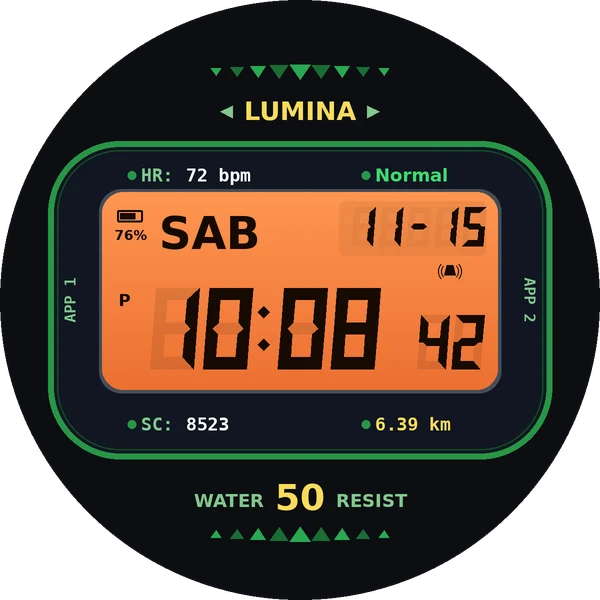
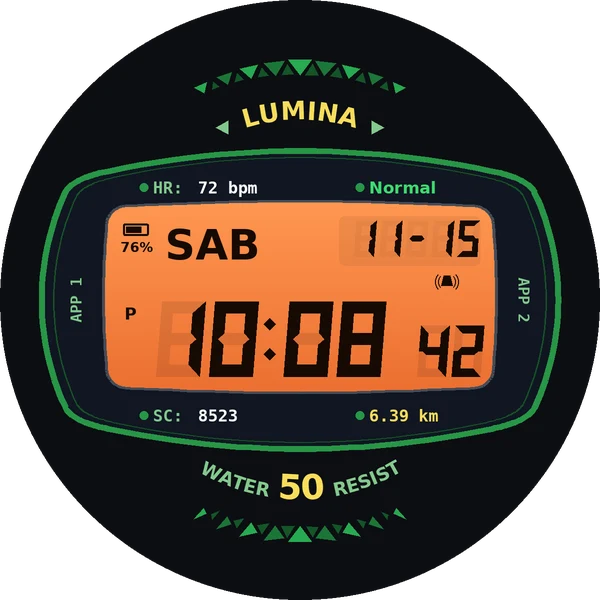
Lumina: panel con la forma de la foto (costados curvos y arcos arriba y abajo), textos y triángulos curvos
Claude-Session: https://claude.ai/code/session_01RTdv2VrACuR4VFWJLA57hx

Changed region(s): [[0.06, 0.09, 0.96, 0.9]]

diff --git a/android/esferas-de-reloj/lumina/src/main/java/cl/carlospnauto/esfera/FaceService.kt b/android/esferas-de-reloj/lumina/src/main/java/cl/carlospnauto/esfera/FaceService.kt
@@ -201,7 +201,7 @@ class LuminaRenderer(
         val r = min(b.width(), b.height()) / 2f
         val fx = (x - b.exactCenterX()) / r
         val fy = (y - b.exactCenterY()) / r
-        return fx in -0.66f..0.66f && fy in -0.36f..0.30f
+        return fx in -0.64f..0.64f && fy in -0.31f..0.29f
     }
 
     private fun a(c: Int, alpha: Int) = Color.argb(alpha, Color.red(c), Color.green(c), Color.blue(c))
@@ -222,38 +222,113 @@ class LuminaRenderer(
         return text.measureText(s)
     }
 
-    /** Fila de triángulos (arriba apuntan hacia abajo, abajo hacia arriba), más grandes al centro */
-    private fun chevrons(canvas: Canvas, cx: Float, y: Float, r: Float, color: Int, up: Boolean) {
+    /**
+     * Fila de triángulos siguiendo el borde redondo (arriba apuntan hacia adentro, abajo también),
+     * más grandes al centro y con los chicos invertidos entre medio (el zigzag)
+     */
+    private fun chevrons(canvas: Canvas, cx: Float, cy: Float, radius: Float, r: Float, color: Int, top: Boolean) {
         val n = 9
-        val step = r * 0.07f
+        val stepDeg = 6.2f
         for (i in 0 until n) {
             val k = i - (n - 1) / 2f
-            val size = r * (0.05f - kotlin.math.abs(k) * 0.006f)
-            val x = cx + k * step
+            val size = r * (0.052f - kotlin.math.abs(k) * 0.0055f)
+            canvas.save()
+            canvas.rotate(if (top) k * stepDeg else -k * stepDeg, cx, cy)
+            val y = if (top) cy - radius else cy + radius
+            val dir = if (top) 1f else -1f
+            // Grande: base hacia afuera, punta hacia el centro
             path.reset()
-            if (!up) {
-                path.moveTo(x - size * 0.7f, y - size * 0.5f); path.lineTo(x + size * 0.7f, y - size * 0.5f); path.lineTo(x, y + size * 0.5f)
-            } else {
-                path.moveTo(x - size * 0.7f, y + size * 0.5f); path.lineTo(x + size * 0.7f, y + size * 0.5f); path.lineTo(x, y - size * 0.5f)
-            }
+            path.moveTo(cx - size * 0.75f, y - dir * size * 0.5f)
+            path.lineTo(cx + size * 0.75f, y - dir * size * 0.5f)
+            path.lineTo(cx, y + dir * size * 0.5f)
             path.close()
-            fill.color = if (i % 2 == 0) color else a(color, 150)
+            fill.color = if (i % 2 == 0) color else a(color, 170)
             canvas.drawPath(path, fill)
-            // Triángulos invertidos entre los de la fila (el zigzag)
+            canvas.restore()
             if (i < n - 1) {
-                val x2 = x + step / 2
-                val s2 = size * 0.7f
+                canvas.save()
+                canvas.rotate(if (top) (k + 0.5f) * stepDeg else -(k + 0.5f) * stepDeg, cx, cy)
+                val s2 = size * 0.62f
                 path.reset()
-                if (!up) {
-                    path.moveTo(x2 - s2 * 0.6f, y + size * 0.5f); path.lineTo(x2 + s2 * 0.6f, y + size * 0.5f); path.lineTo(x2, y - size * 0.3f)
-                } else {
-                    path.moveTo(x2 - s2 * 0.6f, y - size * 0.5f); path.lineTo(x2 + s2 * 0.6f, y - size * 0.5f); path.lineTo(x2, y + size * 0.3f)
-                }
+                path.moveTo(cx - s2 * 0.7f, y + dir * size * 0.5f)
+                path.lineTo(cx + s2 * 0.7f, y + dir * size * 0.5f)
+                path.lineTo(cx, y - dir * size * 0.25f)
                 path.close()
-                fill.color = a(color, 110)
+                fill.color = a(color, 120)
                 canvas.drawPath(path, fill)
+                canvas.restore()
             }
         }
+    }
+
+    private val arcPath = Path()
+
+    /**
+     * Texto curvo siguiendo el borde redondo (arriba o abajo), centrado. Cada parte con su tamaño,
+     * color y letra (como «WATER 50 RESIST»). radius: el renglón (la base de las letras).
+     */
+    private fun arcText(canvas: Canvas, cx: Float, cy: Float, radius: Float, top: Boolean, gap: Float, parts: List<Triple<String, Float, Pair<Int, Typeface>>>) {
+        val widths = parts.map { (txt, size, cf) -> width(txt, size, cf.second) }
+        val total = widths.sum() + gap * (parts.size - 1)
+        arcPath.reset()
+        val oval = RectF(cx - radius, cy - radius, cx + radius, cy + radius)
+        // Arriba: de izquierda a derecha por arriba; abajo: de izquierda a derecha por abajo
+        if (top) arcPath.addArc(oval, 180f, 180f) else arcPath.addArc(oval, 180f, -180f)
+        val len = (Math.PI * radius).toFloat()
+        var off = len / 2 - total / 2
+        for ((idx, part) in parts.withIndex()) {
+            val (txt, size, cf) = part
+            text.typeface = cf.second
+            text.textSize = size
+            text.color = cf.first
+            text.textAlign = Paint.Align.LEFT
+            text.textSkewX = -0.18f
+            canvas.drawTextOnPath(txt, arcPath, off, 0f, text)
+            off += widths[idx] + gap
+        }
+        text.textSkewX = 0f
+    }
+
+    /**
+     * Panel con la forma de la foto: los costados siguen el círculo de la esfera y los bordes de
+     * arriba y abajo son arcos suaves, con las esquinas redondeadas. k achica el panel (línea de adentro).
+     */
+    private fun panelPath(cx: Float, cy: Float, r: Float, k: Float) {
+        val rr = r * k
+        fun X(v: Float) = cx + v * rr
+        fun Y(v: Float) = cy + v * rr
+        val side = 0.86f
+        val ang = Math.toDegrees(kotlin.math.asin(0.36 / side)).toFloat()
+        val sx = (side * kotlin.math.cos(Math.toRadians(ang.toDouble()))).toFloat()
+        path.reset()
+        path.moveTo(X(-0.64f), Y(-0.43f))
+        path.quadTo(cx, Y(-0.565f), X(0.64f), Y(-0.43f))
+        path.quadTo(X(0.76f), Y(-0.405f), X(sx), Y(-0.36f))
+        path.arcTo(RectF(X(-side), Y(-side), X(side), Y(side)), -ang, ang * 2, false)
+        path.quadTo(X(0.76f), Y(0.405f), X(0.64f), Y(0.43f))
+        path.quadTo(cx, Y(0.565f), X(-0.64f), Y(0.43f))
+        path.quadTo(X(-0.76f), Y(0.405f), X(-sx), Y(0.36f))
+        path.arcTo(RectF(X(-side), Y(-side), X(side), Y(side)), 180f - ang, ang * 2, false)
+        path.quadTo(X(-0.76f), Y(-0.405f), X(-0.64f), Y(-0.43f))
+        path.close()
+    }
+
+    /** Pantalla: esquinas redondeadas, arriba y abajo apenas curvos y los costados apenas abombados */
+    private fun screenPath(lcd: RectF, r: Float) {
+        val k = r * 0.075f
+        val mx = lcd.centerX()
+        val my = lcd.centerY()
+        path.reset()
+        path.moveTo(lcd.left + k, lcd.top)
+        path.quadTo(mx, lcd.top - r * 0.03f, lcd.right - k, lcd.top)
+        path.quadTo(lcd.right, lcd.top, lcd.right, lcd.top + k)
+        path.quadTo(lcd.right + r * 0.018f, my, lcd.right, lcd.bottom - k)
+        path.quadTo(lcd.right, lcd.bottom, lcd.right - k, lcd.bottom)
+        path.quadTo(mx, lcd.bottom + r * 0.03f, lcd.left + k, lcd.bottom)
+        path.quadTo(lcd.left, lcd.bottom, lcd.left, lcd.bottom - k)
+        path.quadTo(lcd.left - r * 0.018f, my, lcd.left, lcd.top + k)
+        path.quadTo(lcd.left, lcd.top, lcd.left + k, lcd.top)
+        path.close()
     }
 
     private fun bell(canvas: Canvas, x: Float, y: Float, s: Float, color: Int) {
@@ -290,7 +365,7 @@ class LuminaRenderer(
         val th = THEMES[Choices.index(context, THEME)].second
         canvas.drawColor(Color.BLACK)
 
-        val lcd = RectF(X(-0.66f), Y(-0.36f), X(0.66f), Y(0.30f))
+        val lcd = RectF(X(-0.64f), Y(-0.31f), X(0.64f), Y(0.29f))
         val ink = if (simple) Color.rgb(170, 170, 170) else sc.ink
         val ghost = if (simple) 0 else a(sc.ink, if (sc.dark) 30 else 26)
 
@@ -300,35 +375,41 @@ class LuminaRenderer(
             canvas.drawCircle(cx, cy, r, fill)
             fill.shader = null
 
-            // Triángulos y nombre arriba
-            chevrons(canvas, cx, Y(-0.76f), r, th.chevron, up = false)
+            // Triángulos y nombre arriba, curvos como el borde
+            chevrons(canvas, cx, cy, r * 0.775f, r, th.chevron, top = true)
             val brand = "LUMINA"
             val bs = r * 0.085f
+            val bR = r * 0.60f
+            arcText(canvas, cx, cy, bR, true, 0f, listOf(Triple(brand, bs, th.brand to bold)))
+            // Flechitas a los lados del nombre (siguen la curva)
             val bw = width(brand, bs, bold)
-            write(canvas, brand, cx, Y(-0.60f), bs, th.brand, bold, Paint.Align.CENTER, -0.2f)
+            val half = Math.toDegrees(((bw / 2 + r * 0.06f) / bR).toDouble()).toFloat()
             fill.color = th.label
             for (side in listOf(-1f, 1f)) {
-                val ax = cx + side * (bw / 2 + r * 0.05f)
+                canvas.save()
+                canvas.rotate(side * half, cx, cy)
+                val ay = cy - bR - bs * 0.32f
                 path.reset()
-                path.moveTo(ax + side * r * 0.03f, Y(-0.627f)); path.lineTo(ax - side * r * 0.012f, Y(-0.648f)); path.lineTo(ax - side * r * 0.012f, Y(-0.606f))
+                path.moveTo(cx + side * r * 0.03f, ay); path.lineTo(cx - side * r * 0.012f, ay - r * 0.022f); path.lineTo(cx - side * r * 0.012f, ay + r * 0.022f)
                 path.close()
                 canvas.drawPath(path, fill)
+                canvas.restore()
             }
 
-            // Panel con marco de color (doble línea) y fondo azul muy oscuro
-            val panel = RectF(X(-0.84f), Y(-0.53f), X(0.84f), Y(0.53f))
+            // Panel con la forma de la foto (costados curvos como la esfera), doble línea de color
+            panelPath(cx, cy, r, 1f)
             fill.color = Color.rgb(16, 22, 34)
-            canvas.drawRoundRect(panel, r * 0.24f, r * 0.24f, fill)
+            canvas.drawPath(path, fill)
             stroke.color = th.frame
             stroke.strokeWidth = r * 0.02f
-            canvas.drawRoundRect(panel, r * 0.24f, r * 0.24f, stroke)
-            stroke.color = a(th.frame, 110)
+            canvas.drawPath(path, stroke)
+            panelPath(cx, cy, r, 0.955f)
+            stroke.color = a(th.frame, 120)
             stroke.strokeWidth = r * 0.006f
-            val inner = RectF(panel.left + r * 0.03f, panel.top + r * 0.03f, panel.right - r * 0.03f, panel.bottom - r * 0.03f)
-            canvas.drawRoundRect(inner, r * 0.21f, r * 0.21f, stroke)
+            canvas.drawPath(path, stroke)
 
             // APP 1 y APP 2 (accesos) en los costados
-            for ((sx, label, deg) in listOf(Triple(-0.765f, "APP 1", -90f), Triple(0.765f, "APP 2", 90f))) {
+            for ((sx, label, deg) in listOf(Triple(-0.745f, "APP 1", -90f), Triple(0.745f, "APP 2", 90f))) {
                 canvas.save()
                 canvas.rotate(deg, X(sx), cy)
                 write(canvas, label, X(sx), cy + r * 0.018f, r * 0.05f, th.label, mono, Paint.Align.CENTER)
@@ -339,11 +420,11 @@ class LuminaRenderer(
             val hrTxt = complications.textOf(HEART, context.resources)?.filter { it.isDigit() }?.takeIf { it.isNotEmpty() }
                 ?: heart.bpm.takeIf { it > 0 }?.toString()
             val hr = hrTxt?.toIntOrNull() ?: 0
-            val ls = r * 0.06f
+            val ls = r * 0.056f
             fill.color = th.frame
-            canvas.drawCircle(X(-0.56f), Y(-0.415f), r * 0.014f, fill)
-            write(canvas, "HR:", X(-0.53f), Y(-0.395f), ls, th.label, mono, Paint.Align.LEFT)
-            write(canvas, "${hrTxt ?: "--"} bpm", X(-0.38f), Y(-0.395f), ls, th.value, mono, Paint.Align.LEFT)
+            canvas.drawCircle(X(-0.52f), Y(-0.375f), r * 0.014f, fill)
+            write(canvas, "HR:", X(-0.49f), Y(-0.355f), ls, th.label, mono, Paint.Align.LEFT)
+            write(canvas, "${hrTxt ?: "--"} bpm", X(-0.34f), Y(-0.355f), ls, th.value, mono, Paint.Align.LEFT)
             val status = when {
                 hr <= 0 -> "--"
                 hr < 60 -> "Bajo"
@@ -351,83 +432,88 @@ class LuminaRenderer(
                 else -> "Alto"
             }
             val stColor = when (status) { "Normal" -> Color.rgb(60, 220, 110); "Bajo" -> Color.rgb(90, 180, 255); "Alto" -> Color.rgb(255, 90, 80); else -> Color.GRAY }
-            canvas.drawCircle(X(0.22f), Y(-0.415f), r * 0.014f, fill)
-            write(canvas, status, X(0.25f), Y(-0.395f), ls, stColor, bold, Paint.Align.LEFT)
+            canvas.drawCircle(X(0.20f), Y(-0.375f), r * 0.014f, fill)
+            write(canvas, status, X(0.23f), Y(-0.355f), ls, stColor, bold, Paint.Align.LEFT)
 
             // Pasos y distancia
             val stepsTxt = complications.textOf(STEPS, context.resources)?.filter { it.isDigit() } ?: ""
             val steps = stepsTxt.toLongOrNull() ?: 0L
             val km = steps * 0.00075
             val dist = if (Choices.value(context, DISTANCE) == 1) "%.2f mi".format(loc, km * 0.621371) else "%.2f km".format(loc, km)
-            canvas.drawCircle(X(-0.56f), Y(0.415f), r * 0.014f, fill)
-            write(canvas, "SC:", X(-0.53f), Y(0.435f), ls, th.label, mono, Paint.Align.LEFT)
-            write(canvas, stepsTxt.ifEmpty { "--" }, X(-0.38f), Y(0.435f), ls, th.value, mono, Paint.Align.LEFT)
-            canvas.drawCircle(X(0.22f), Y(0.415f), r * 0.014f, fill)
-            write(canvas, dist, X(0.25f), Y(0.435f), ls, th.brand, mono, Paint.Align.LEFT)
+            canvas.drawCircle(X(-0.52f), Y(0.385f), r * 0.014f, fill)
+            write(canvas, "SC:", X(-0.49f), Y(0.405f), ls, th.label, mono, Paint.Align.LEFT)
+            write(canvas, stepsTxt.ifEmpty { "--" }, X(-0.34f), Y(0.405f), ls, th.value, mono, Paint.Align.LEFT)
+            canvas.drawCircle(X(0.20f), Y(0.385f), r * 0.014f, fill)
+            write(canvas, dist, X(0.23f), Y(0.405f), ls, th.brand, mono, Paint.Align.LEFT)
 
-            // WATER 50 RESIST y triángulos abajo
-            val ws = r * 0.06f
-            write(canvas, "WATER", X(-0.12f), Y(0.69f), ws, th.label, bold, Paint.Align.RIGHT, -0.2f)
-            write(canvas, "50", cx, Y(0.70f), r * 0.12f, th.brand, black, Paint.Align.CENTER, -0.3f)
-            write(canvas, "RESIST", X(0.12f), Y(0.69f), ws, th.label, bold, Paint.Align.LEFT, -0.2f)
-            chevrons(canvas, cx, Y(0.78f), r, th.chevron, up = true)
+            // WATER 50 RESIST curvo como el borde, y triángulos abajo
+            arcText(
+                canvas, cx, cy, r * 0.665f, false, r * 0.03f,
+                listOf(
+                    Triple("WATER", r * 0.062f, th.label to bold),
+                    Triple("50", r * 0.115f, th.brand to black),
+                    Triple("RESIST", r * 0.062f, th.label to bold),
+                ),
+            )
+            chevrons(canvas, cx, cy, r * 0.78f, r, th.chevron, top = false)
 
             // Pantalla: bisel y cristal
             stroke.color = Color.rgb(70, 76, 86)
             stroke.strokeWidth = r * 0.02f
-            canvas.drawRoundRect(lcd, r * 0.07f, r * 0.07f, stroke)
+            screenPath(lcd, r)
+            canvas.drawPath(path, stroke)
             fill.shader = LinearGradient(lcd.left, lcd.top, lcd.left, lcd.bottom, sc.top, sc.bottom, Shader.TileMode.CLAMP)
-            canvas.drawRoundRect(lcd, r * 0.07f, r * 0.07f, fill)
+            canvas.drawPath(path, fill)
             fill.shader = null
             if (!ambient && System.currentTimeMillis() < lightUntil) {
                 // Luz: la pantalla se ilumina desde el centro
                 val glow = if (sc.dark) a(sc.ink, 80) else Color.argb(150, 200, 255, 240)
                 fill.shader = RadialGradient(lcd.centerX(), lcd.centerY(), lcd.width() * 0.6f, glow, Color.TRANSPARENT, Shader.TileMode.CLAMP)
-                canvas.drawRoundRect(lcd, r * 0.07f, r * 0.07f, fill)
+                canvas.drawPath(path, fill)
                 fill.shader = null
             }
             // Sombra arriba y reflejo
             fill.shader = LinearGradient(lcd.left, lcd.top, lcd.left, lcd.top + lcd.height() * 0.18f, Color.argb(60, 0, 0, 0), Color.TRANSPARENT, Shader.TileMode.CLAMP)
-            canvas.drawRoundRect(lcd, r * 0.07f, r * 0.07f, fill)
+            canvas.drawPath(path, fill)
             fill.shader = null
         }
 
         // Batería: pila chica con su nivel y el porcentaje
         val pct = battery?.getIntProperty(BatteryManager.BATTERY_PROPERTY_CAPACITY) ?: -1
         if (!simple) {
-            val bx = X(-0.61f)
-            val by = Y(-0.30f)
+            val bx = X(-0.59f)
+            val by = Y(-0.255f)
             stroke.color = ink
             stroke.strokeWidth = r * 0.008f
             canvas.drawRoundRect(RectF(bx, by, bx + r * 0.085f, by + r * 0.04f), r * 0.006f, r * 0.006f, stroke)
             fill.color = ink
             canvas.drawRect(bx + r * 0.085f, by + r * 0.012f, bx + r * 0.095f, by + r * 0.028f, fill)
             if (pct >= 0) canvas.drawRect(bx + r * 0.01f, by + r * 0.01f, bx + r * 0.01f + r * 0.065f * pct / 100f, by + r * 0.03f, fill)
-            write(canvas, if (pct >= 0) "$pct%" else "--", bx + r * 0.045f, Y(-0.20f), r * 0.045f, ink, bold, Paint.Align.CENTER)
+            write(canvas, if (pct >= 0) "$pct%" else "--", bx + r * 0.045f, Y(-0.16f), r * 0.045f, ink, bold, Paint.Align.CENTER)
         }
 
         // Día de la semana grande
         val dow = t.dayOfWeek.getDisplayName(TextStyle.SHORT, loc).replace(".", "").take(3).uppercase(loc)
-        write(canvas, dow, X(-0.47f), Y(-0.17f), r * 0.15f, ink, black, Paint.Align.LEFT)
+        write(canvas, dow, X(-0.45f), Y(-0.135f), r * 0.14f, ink, black, Paint.Align.LEFT)
 
         // Fecha (mes-día) en su cajita, con «8» apagados
         if (!simple) {
             fill.color = a(sc.ink, if (sc.dark) 22 else 16)
-            canvas.drawRoundRect(RectF(X(0.13f), Y(-0.33f), X(0.62f), Y(-0.15f)), r * 0.02f, r * 0.02f, fill)
+            canvas.drawRoundRect(RectF(X(0.13f), Y(-0.28f), X(0.60f), Y(-0.115f)), r * 0.02f, r * 0.02f, fill)
         }
-        Lcd.row(canvas, "${t.monthValue}-${t.dayOfMonth}", X(0.61f), Y(-0.31f), r * 0.07f, r * 0.13f, r * 0.022f, 5, ink, ghost)
+        Lcd.row(canvas, "${t.monthValue}-${t.dayOfMonth}", X(0.59f), Y(-0.265f), r * 0.066f, r * 0.12f, r * 0.02f, 5, ink, ghost)
 
         // Alarma puesta: campana con ondas
-        if (!simple) bell(canvas, X(0.50f), Y(-0.095f), r * 0.035f, if (Indicators.alarm(context)) ink else ghost)
+        if (!simple) bell(canvas, X(0.49f), Y(-0.06f), r * 0.035f, if (Indicators.alarm(context)) ink else ghost)
 
         // Hora grande, segundos e indicador P / 24
         val is24 = DateFormat.is24HourFormat(context)
         val h = if (is24) "%02d".format(t.hour) else (if (t.hour % 12 == 0) 12 else t.hour % 12).toString().padStart(2, ' ')
         val m = "%02d".format(t.minute)
         val dw = r * 0.145f
-        val dh = r * 0.27f
-        val top = Y(-0.04f)
-        var x = X(-0.50f)
+        val dh = r * 0.25f
+        val top = Y(0.005f)
+        var x = X(-0.48f)
         Lcd.digit(canvas, h[0], x, top, dw, dh, ink, ghost); x += dw * 1.22f
         Lcd.digit(canvas, h[1], x, top, dw, dh, ink, ghost); x += dw * 1.22f
         Lcd.colon(canvas, x + dw * 0.18f, top, dh, r * 0.02f, ink); x += dw * 0.5f
@@ -436,11 +522,11 @@ class LuminaRenderer(
         if (!ambient && Choices.value(context, SECONDS) == 0) {
             val s = "%02d".format(t.second)
             val sw = r * 0.095f
-            val sh = r * 0.18f
+            val sh = r * 0.17f
             Lcd.digit(canvas, s[0], X(0.39f), top + dh - sh, sw, sh, ink, ghost)
             Lcd.digit(canvas, s[1], X(0.39f) + sw * 1.22f, top + dh - sh, sw, sh, ink, ghost)
         }
-        write(canvas, if (is24) "24" else "P", X(-0.585f), top + r * 0.06f, r * 0.055f, if (is24 || t.hour >= 12) ink else ghost, bold, Paint.Align.CENTER)
+        write(canvas, if (is24) "24" else "P", X(-0.565f), top + r * 0.06f, r * 0.055f, if (is24 || t.hour >= 12) ink else ghost, bold, Paint.Align.CENTER)
 
         Brand.draw(canvas, cx, Y(0.90f), r * 0.028f, Color.rgb(110, 110, 115))
         // Siempre activa: la esfera completa, más tenue
